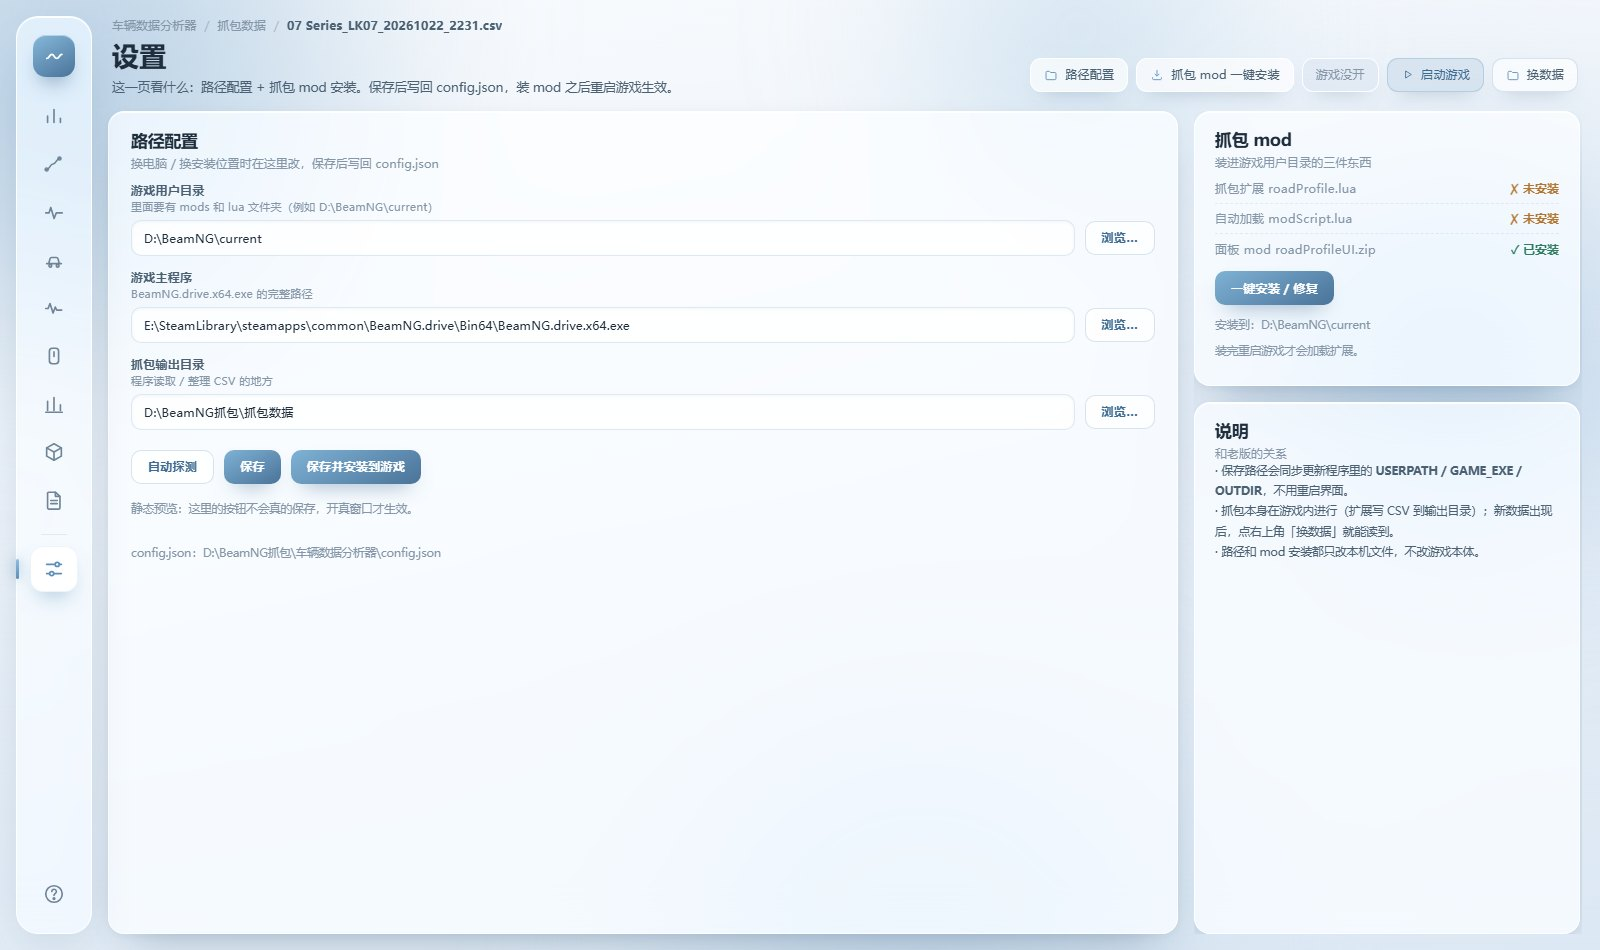
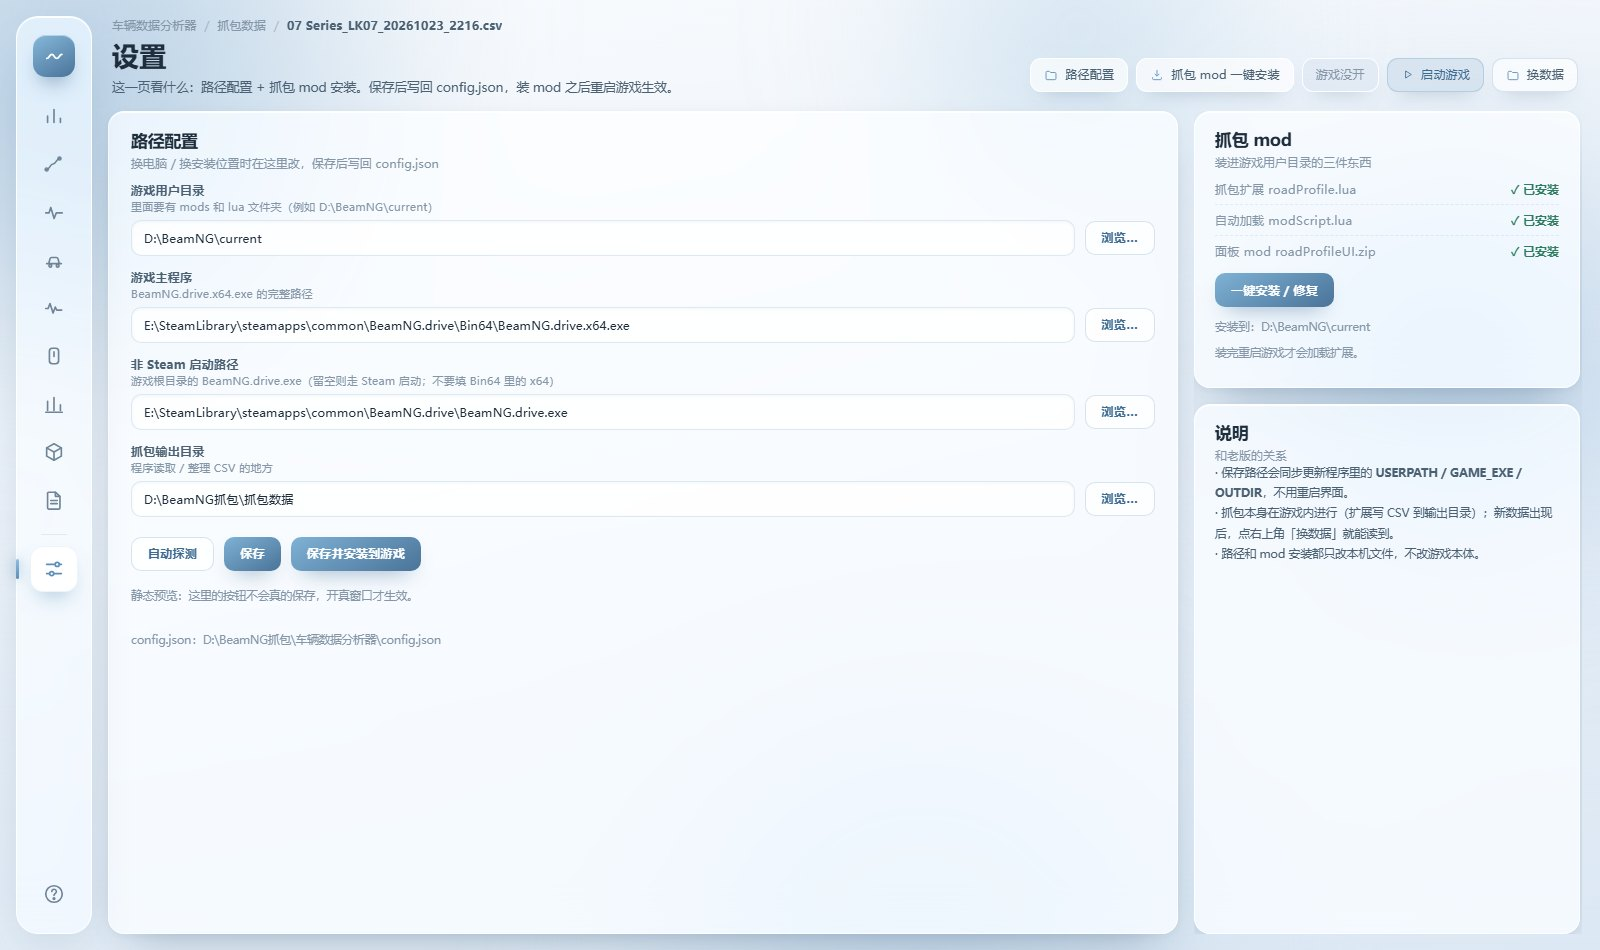
feat: 设置页新增非 Steam 启动路径（游戏根目录 BeamNG.drive.exe）

diff --git a/webui_parts/p_settings.py b/webui_parts/p_settings.py
@@ -48,6 +48,7 @@ def render(d):
 
     userpath = getattr(T, "USERPATH", "") if T else ""
     game_exe = getattr(T, "GAME_EXE", "") if T else ""
+    launcher = getattr(T, "LAUNCHER", "") if T else ""
     outdir = getattr(T, "OUTDIR", "") if T else ""
     cfg_file = getattr(T, "CFG_FILE", "") if T else ""
     inst = _install_status(userpath)
@@ -80,6 +81,14 @@ def render(d):
             <div class="cfg-row">
               <input id="cfg-game-exe" value="%(game_exe)s" spellcheck="false">
               <button class="cfg-btn ghost" id="cfg-browse-game">浏览…</button>
+            </div>
+            <label>非 Steam 启动路径
+              <span>游戏根目录的 BeamNG.drive.exe（留空则走 Steam 启动；不要填 Bin64 里的 x64）</span>
+            </label>
+            <div class="cfg-row">
+              <input id="cfg-launcher" value="%(launcher)s" spellcheck="false"
+                     placeholder="例如 E:\\SteamLibrary\\steamapps\\common\\BeamNG.drive\\BeamNG.drive.exe">
+              <button class="cfg-btn ghost" id="cfg-browse-launcher">浏览…</button>
             </div>
             <label>抓包输出目录
               <span>程序读取 / 整理 CSV 的地方</span>
@@ -120,6 +129,7 @@ def render(d):
     </section>""" % {
         "userpath": esc(userpath),
         "game_exe": esc(game_exe),
+        "launcher": esc(launcher),
         "outdir": esc(outdir),
         "cfg_file": esc(cfg_file),
         "status_rows": status_rows,
@@ -170,13 +180,15 @@ window.PAGE_INIT.settings = function (root, DATA) {
       if (!r || !r.ok) { toast('探测失败：' + ((r && r.error) || '')); return; }
       if (r.userpath) $('#cfg-userpath').value = r.userpath;
       if (r.game_exe) $('#cfg-game-exe').value = r.game_exe;
+      if (r.launcher) $('#cfg-launcher').value = r.launcher;
       toast('已自动探测，确认后点「保存」');
     });
   }
 
   function browse(kind) {
-    var target = { userpath: '#cfg-userpath', game: '#cfg-game-exe', outdir: '#cfg-outdir' }[kind];
-    var method = kind === 'game' ? 'pick_exe' : 'pick_folder';
+    var target = { userpath: '#cfg-userpath', game: '#cfg-game-exe',
+                   launcher: '#cfg-launcher', outdir: '#cfg-outdir' }[kind];
+    var method = (kind === 'game' || kind === 'launcher') ? 'pick_exe' : 'pick_folder';
     if (!can(method)) { toast('真窗口里才能选择文件夹'); return; }
     api()[method]().then(function (r) {
       if (!r || r.cancelled) return;
@@ -188,7 +200,8 @@ window.PAGE_INIT.settings = function (root, DATA) {
   function save(thenInstall) {
     if (!can('save_config')) { toast('真窗口里才能保存'); return; }
     toast('正在保存路径…');
-    api().save_config(val('#cfg-userpath'), val('#cfg-game-exe'), val('#cfg-outdir')).then(function (r) {
+    api().save_config(val('#cfg-userpath'), val('#cfg-game-exe'), val('#cfg-outdir'),
+                     val('#cfg-launcher')).then(function (r) {
       if (!r || !r.ok) { toast('保存失败：' + ((r && r.error) || '')); return; }
       if (!thenInstall) return;
       api().install_mod().then(function (m) {
@@ -207,6 +220,7 @@ window.PAGE_INIT.settings = function (root, DATA) {
   bind('#cfg-save-install', function () { save(true); });
   bind('#cfg-browse-userpath', function () { browse('userpath'); });
   bind('#cfg-browse-game', function () { browse('game'); });
+  bind('#cfg-browse-launcher', function () { browse('launcher'); });
   bind('#cfg-browse-outdir', function () { browse('outdir'); });
   bind('#cfg-install', function () {
     if (!can('install_mod')) { toast('真窗口里才能安装'); return; }

diff --git a/web_ui.py b/web_ui.py
@@ -988,7 +988,7 @@ __PAGE_JS__
 
   function launchGame() {
     if (!bridgeReady()) { toast('静态预览不能启动游戏，请用真窗口'); return; }
-    toast('正在通过 Steam 启动游戏…');
+    toast('正在启动游戏…');
     window.pywebview.api.launch_game().then(function (res) {
       if (!res || !res.ok) toast('启动失败：' + ((res && res.message) || '未知错误'));
       else toast(res.message);
@@ -1677,8 +1677,9 @@ class Api:
 
     def autodetect_paths(self):
         try:
+            game = T._autodetect_game_exe()
             return {"ok": True, "userpath": T._autodetect_userpath(),
-                    "game_exe": T._autodetect_game_exe()}
+                    "game_exe": game, "launcher": T._derive_launcher(game)}
         except Exception as e:          # noqa: BLE001
             return {"ok": False, "error": "%s" % e}
 
@@ -1703,18 +1704,21 @@ class Api:
             return {"ok": False, "cancelled": True}
         return {"ok": True, "path": res[0] if isinstance(res, (list, tuple)) else res}
 
-    def save_config(self, userpath, game_exe="", outdir=""):
+    def save_config(self, userpath, game_exe="", outdir="", launcher=""):
         """写回 config.json，同步更新 beamng_data 的全局路径，然后整页重载。"""
         import json
         userpath = (userpath or "").strip()
         game_exe = (game_exe or "").strip()
         outdir = (outdir or "").strip()
+        launcher = (launcher or "").strip()
         if not userpath or not os.path.isdir(userpath):
             return {"ok": False, "error": "用户目录不存在：%s" % userpath}
         outdir = os.path.abspath(outdir) if outdir else T.OUTDIR
         try:
             os.makedirs(outdir, exist_ok=True)
             cfg = {"userpath": userpath, "game_exe": game_exe, "outdir": outdir}
+            if launcher:
+                cfg["launcher"] = launcher
             with open(T.CFG_FILE, "w", encoding="utf-8") as f:
                 json.dump(cfg, f, ensure_ascii=False, indent=2)
         except Exception as e:          # noqa: BLE001
@@ -1722,8 +1726,7 @@ class Api:
         T.USERPATH = userpath
         T.GAME_EXE = game_exe
         T.OUTDIR = outdir
-        T.LAUNCHER = os.path.join(os.path.dirname(os.path.dirname(game_exe)),
-                                  "BeamNG.drive.exe") if game_exe else ""
+        T.LAUNCHER = launcher or T._derive_launcher(game_exe)
         T.IPC_DIR = userpath
         T.F_STATUS = os.path.join(userpath, "roadProfile_status.txt")
         T.F_CMD = os.path.join(userpath, "roadProfile_cmd.txt")

diff --git a/beamng_data.py b/beamng_data.py
@@ -86,18 +86,33 @@ USERPATH = _CFG.get("userpath") or _autodetect_userpath()
 GAME_EXE = _CFG.get("game_exe") or _autodetect_game_exe()
 OUTDIR = _CFG.get("outdir") or os.path.join(BASE_DIR, "抓包数据")
 OUTDIR = os.path.abspath(OUTDIR)
-LAUNCHER = os.path.join(os.path.dirname(os.path.dirname(GAME_EXE)), "BeamNG.drive.exe") if GAME_EXE else ""
+def _derive_launcher(game_exe):
+    """游戏根目录的 BeamNG.drive.exe（非 Steam 直启用它，不能直连 Bin64 里的 x64）。"""
+    if not game_exe:
+        return ""
+    return os.path.join(os.path.dirname(os.path.dirname(game_exe)), "BeamNG.drive.exe")
+
+
+LAUNCHER = _CFG.get("launcher") or _derive_launcher(GAME_EXE)
 STEAM_URL = "steam://rungameid/284160"
 
 
 def launch_game():
-    """通过 Steam 启动 BeamNG.drive，返回 (ok, 说明)。
+    """启动 BeamNG.drive，返回 (ok, 说明)。
 
-    老版就是这么做的：必须走 Steam 协议，直接跑 BeamNG.drive.x64.exe 会新建空档案。
+    优先用「非 Steam 启动路径」（游戏根目录的 BeamNG.drive.exe）；
+    没配置就退回 Steam 协议（steam://rungameid/284160）。
+    注意：直连 Bin64 里的 BeamNG.drive.x64.exe 会新建空档案，不要那么干。
     """
+    if LAUNCHER and os.path.isfile(LAUNCHER):
+        try:
+            os.startfile(LAUNCHER)          # noqa: S606  Windows 专用
+            return True, "正在直接启动游戏（非 Steam 模式）…"
+        except OSError as e:
+            return False, "启动失败：%s" % e
     try:
         os.startfile(STEAM_URL)          # noqa: S606  Windows 专用
-        return True, "正在通过 Steam 启动游戏…（必须走 Steam，直连 exe 会新建空档案）"
+        return True, "正在通过 Steam 启动游戏…（没配置非 Steam 启动路径）"
     except OSError as e:
         return False, "启动失败：%s" % e
 
